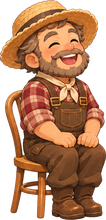
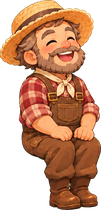
feat(patisserie-story): split dining floor, bistro chairs, chairless chibi guests, and café tables into true 2.5D layered sprites

diff --git a/games/patisserie-story/src/pages/shop.js b/games/patisserie-story/src/pages/shop.js
@@ -304,7 +304,7 @@ export function mountShopPage(root) {
 
     root.innerHTML = `
       <div class="kitchen-scene is-zoned-25d">
-        <img class="kitchen-scene-bg mode-fill" src="assets/images/kitchen/patisserie_25d_zones.jpg?v=2" alt="" />
+        <img class="kitchen-scene-bg mode-fill" src="assets/images/kitchen/patisserie_25d_zones.jpg?v=3" alt="" />
 
         <!-- 顶部悬浮半透明营收 HUD -->
         <div class="scene-hud">
@@ -319,10 +319,13 @@ export function mountShopPage(root) {
 
         <div id="k-tut-coach"></div>
 
-        <!-- 区域 1：上部阳光餐区（3 张欧式圆桌，人物真实坐在桌旁） -->
+        <!-- 区域 1：上部阳光餐区（独立拆分 4 层：木地板 -> 独立木椅 -> 纯坐姿Q版人物 -> 独立蕾丝圆桌 -> 甜点/残渣盘） -->
         <div class="zone-dining" aria-label="餐区">
           ${[0, 1, 2].map(id => `
             <div id="k-seat-wrap-${id}" class="dining-table-slot">
+              <img class="furn-chair-left mode-fit" src="assets/images/kitchen/prop_cafe_chair.png" alt="" aria-hidden="true" />
+              <img class="furn-chair-right mode-fit" src="assets/images/kitchen/prop_cafe_chair.png" alt="" aria-hidden="true" />
+              <img class="furn-table-center mode-fit" src="assets/images/kitchen/prop_cafe_table.png" alt="" aria-hidden="true" />
               <button type="button" id="k-seat-${id}" class="dining-seat-btn is-empty" data-action="tapSeat" data-id="${id}" aria-label="空餐桌" disabled></button>
               <button type="button" id="k-decline-${id}" class="cust-decline-btn" data-action="declineSeat" data-id="${id}" aria-label="婉拒顾客空出餐桌" title="不接待（空出餐桌，口碑-5）" style="display:none;">✕ 婉拒</button>
             </div>
@@ -430,19 +433,19 @@ export function mountShopPage(root) {
               ${isOutOfStock ? '<span class="order-oos-tag">缺货</span>' : ''}
             </div>
             ${isGlow ? '<span class="cust-serve-tag">🍰 端上桌</span>' : ''}
-            <img class="dining-chibi-guest mode-fit" src="${s.chibiImg}" alt="${s.name}" />
+            <img class="dining-chibi-guest mode-fit" src="${s.chibiImg}?v=2" alt="${s.name}" />
           `;
         } else if (st === 'eating') {
           slot.innerHTML = `
             <div class="eating-fx-float"><span>😋</span><span>💗</span></div>
             <div class="eating-prog-pill"><div class="eating-prog-fill" style="width:${s.eatProgress || 10}%;"></div></div>
-            <img class="dining-chibi-guest is-eating mode-fit" src="${s.chibiImg}" alt="${s.name}" />
+            <img class="dining-chibi-guest is-eating mode-fit" src="${s.chibiImg}?v=2" alt="${s.name}" />
             <img class="table-served-dish mode-fit" src="${s.wantedIcon}" alt="" />
           `;
         } else if (st === 'bill') {
           slot.innerHTML = `
             <span class="bill-ready-pill">🪙 结账 +小费</span>
-            <img class="dining-chibi-guest mode-fit" src="${s.chibiImg}" alt="${s.name}" />
+            <img class="dining-chibi-guest mode-fit" src="${s.chibiImg}?v=2" alt="${s.name}" />
             <img class="table-dirty-plate mode-fit" src="assets/images/kitchen/prop_dirty_plate.png" alt="餐盘" />
           `;
         } else if (st === 'dirty') {

diff --git a/games/patisserie-story/styles/shop.css b/games/patisserie-story/styles/shop.css
@@ -2111,15 +2111,52 @@
 }
 
 /* 最底部紧凑手持状态条 */
-/* Q版人物真实坐在圆桌左侧椅位上 + 桌面上菜/吃东西动画/结账气泡/残渣餐盘清台 */
+/* 独立拆分餐桌/座椅/无椅Q版人物 4 层 2.5D 遮挡层级 */
+.page-shop .furn-chair-left,
+.page-shop .furn-chair-right,
+.page-shop .furn-table-center {
+  position: absolute;
+  pointer-events: none;
+  filter: drop-shadow(0 5px 6px rgba(42, 18, 6, 0.34));
+}
+
+.page-shop .furn-chair-left {
+  left: -4px;
+  bottom: 10px;
+  width: clamp(34px, 9.5vw, 42px);
+  z-index: 1;
+  transform: scaleX(-1);
+}
+
+.page-shop .furn-chair-right {
+  right: -4px;
+  bottom: 10px;
+  width: clamp(34px, 9.5vw, 42px);
+  z-index: 1;
+}
+
+.page-shop .furn-table-center {
+  left: 52%;
+  bottom: 8px;
+  transform: translateX(-50%);
+  width: clamp(54px, 15vw, 66px);
+  z-index: 3;
+}
+
+/* 按钮容器不建独立层叠上下文，让子元素能与独立座椅(z:1)和圆桌(z:3)真实交错遮挡 */
+.page-shop .kitchen-scene.is-zoned-25d .dining-seat-btn {
+  z-index: auto;
+}
+
+/* Q版人物（无椅纯坐姿）z-index: 2 —— 稳坐左侧木椅(z:1)之上、自然落于圆桌(z:3)之后！ */
 .page-shop .dining-chibi-guest {
   position: absolute;
   left: -4px;
-  bottom: 10px;
-  width: clamp(50px, 14vw, 62px);
+  bottom: 12px;
+  width: clamp(48px, 13.5vw, 58px);
   height: auto;
-  z-index: 12;
-  filter: drop-shadow(0 4px 6px rgba(42, 18, 6, 0.36));
+  z-index: 2;
+  filter: drop-shadow(0 4px 5px rgba(42, 18, 6, 0.3));
   pointer-events: none;
 }
 
@@ -2130,11 +2167,11 @@
 .page-shop .table-served-dish {
   position: absolute;
   left: 52%;
-  bottom: 42px;
+  bottom: 46px;
   transform: translateX(-50%);
   width: 28px;
   height: 28px;
-  z-index: 13;
+  z-index: 5;
   filter: drop-shadow(0 2px 4px rgba(42, 18, 6, 0.36));
   animation: dishNibble 0.55s ease-in-out infinite alternate;
   pointer-events: none;
@@ -2143,11 +2180,11 @@
 .page-shop .table-dirty-plate {
   position: absolute;
   left: 52%;
-  bottom: 40px;
+  bottom: 44px;
   transform: translateX(-50%);
   width: 34px;
   height: 34px;
-  z-index: 13;
+  z-index: 5;
   filter: drop-shadow(0 3px 5px rgba(42, 18, 6, 0.38));
   pointer-events: none;
 }

diff --git a/games/patisserie-story/index.html b/games/patisserie-story/index.html
@@ -11,7 +11,7 @@
   <link rel="stylesheet" href="styles/map.css" />
   <link rel="stylesheet" href="styles/story.css?v=20261126" />
   <link rel="stylesheet" href="styles/minigame.css?v=20261126" />
-  <link rel="stylesheet" href="styles/shop.css?v=20261126j" />
+  <link rel="stylesheet" href="styles/shop.css?v=20261126k" />
   <link rel="stylesheet" href="styles/recipes.css" />
 </head>
 <body>
